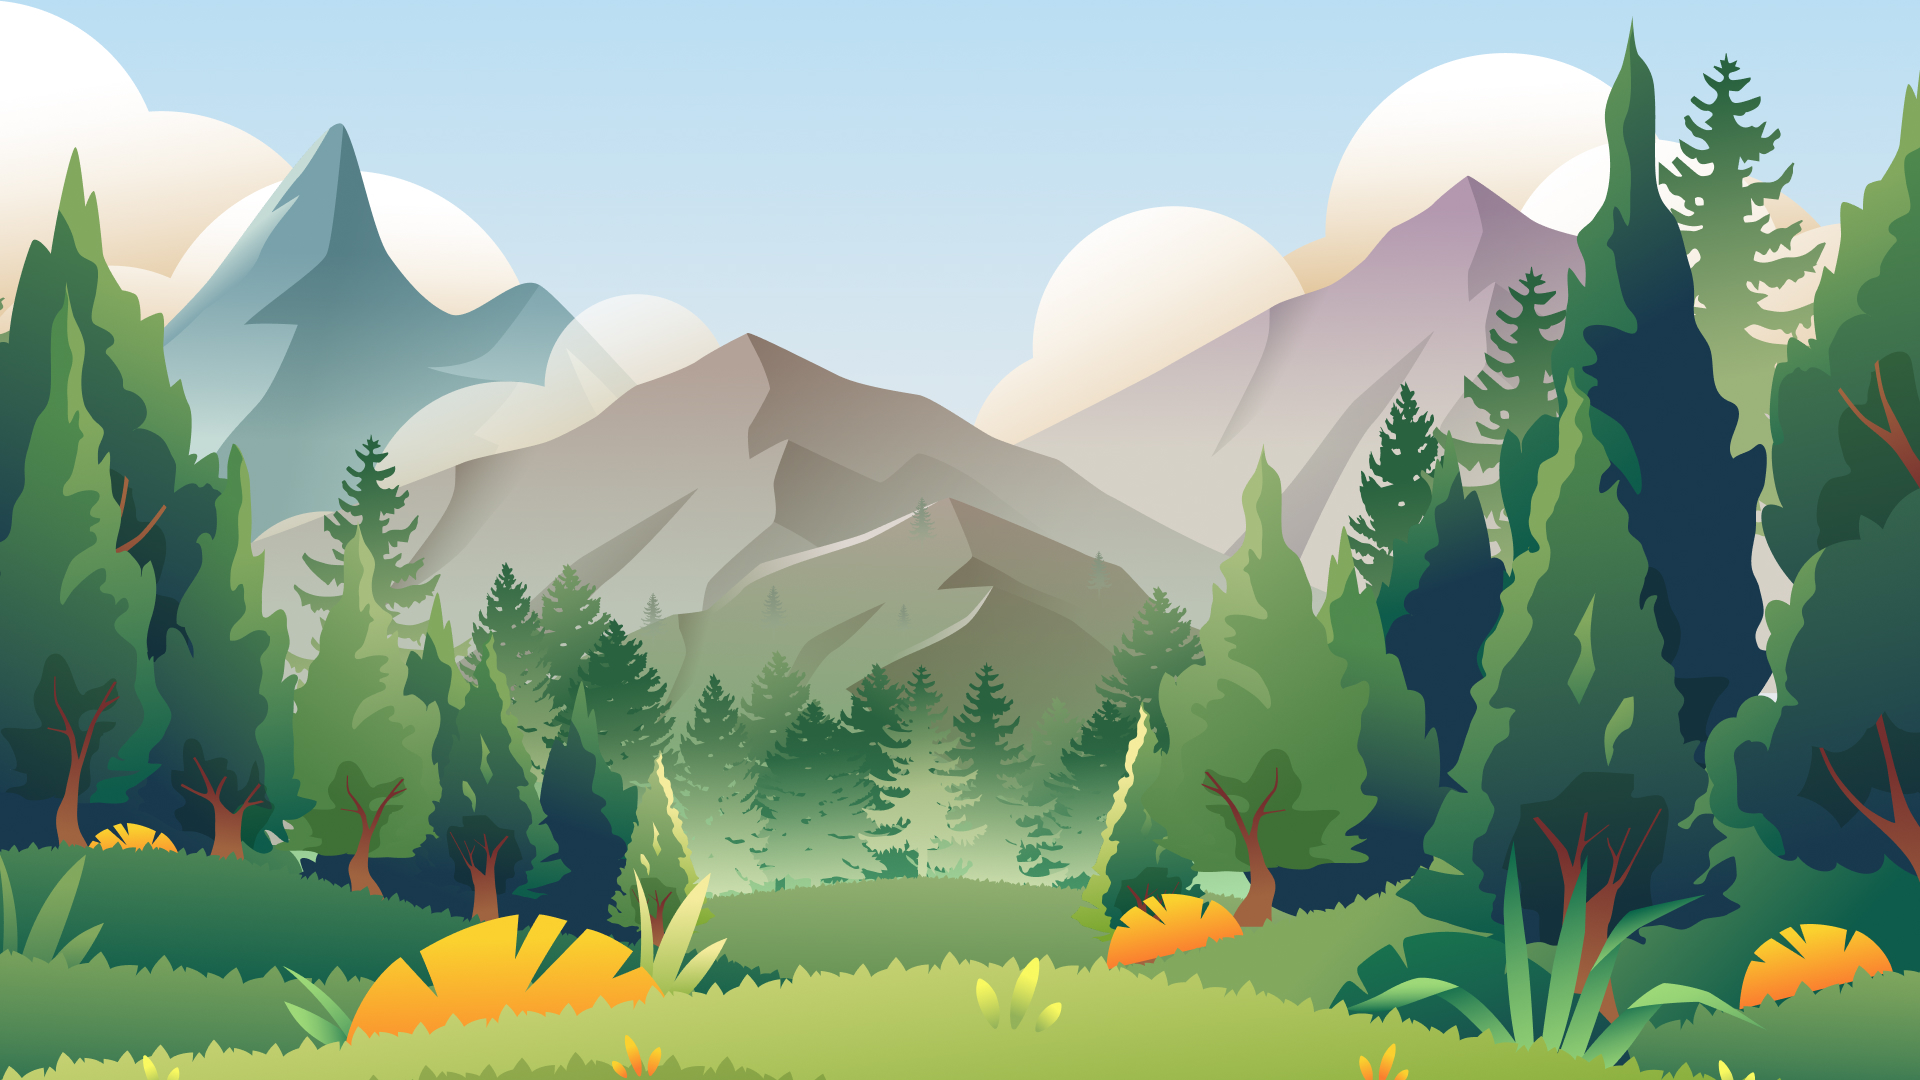
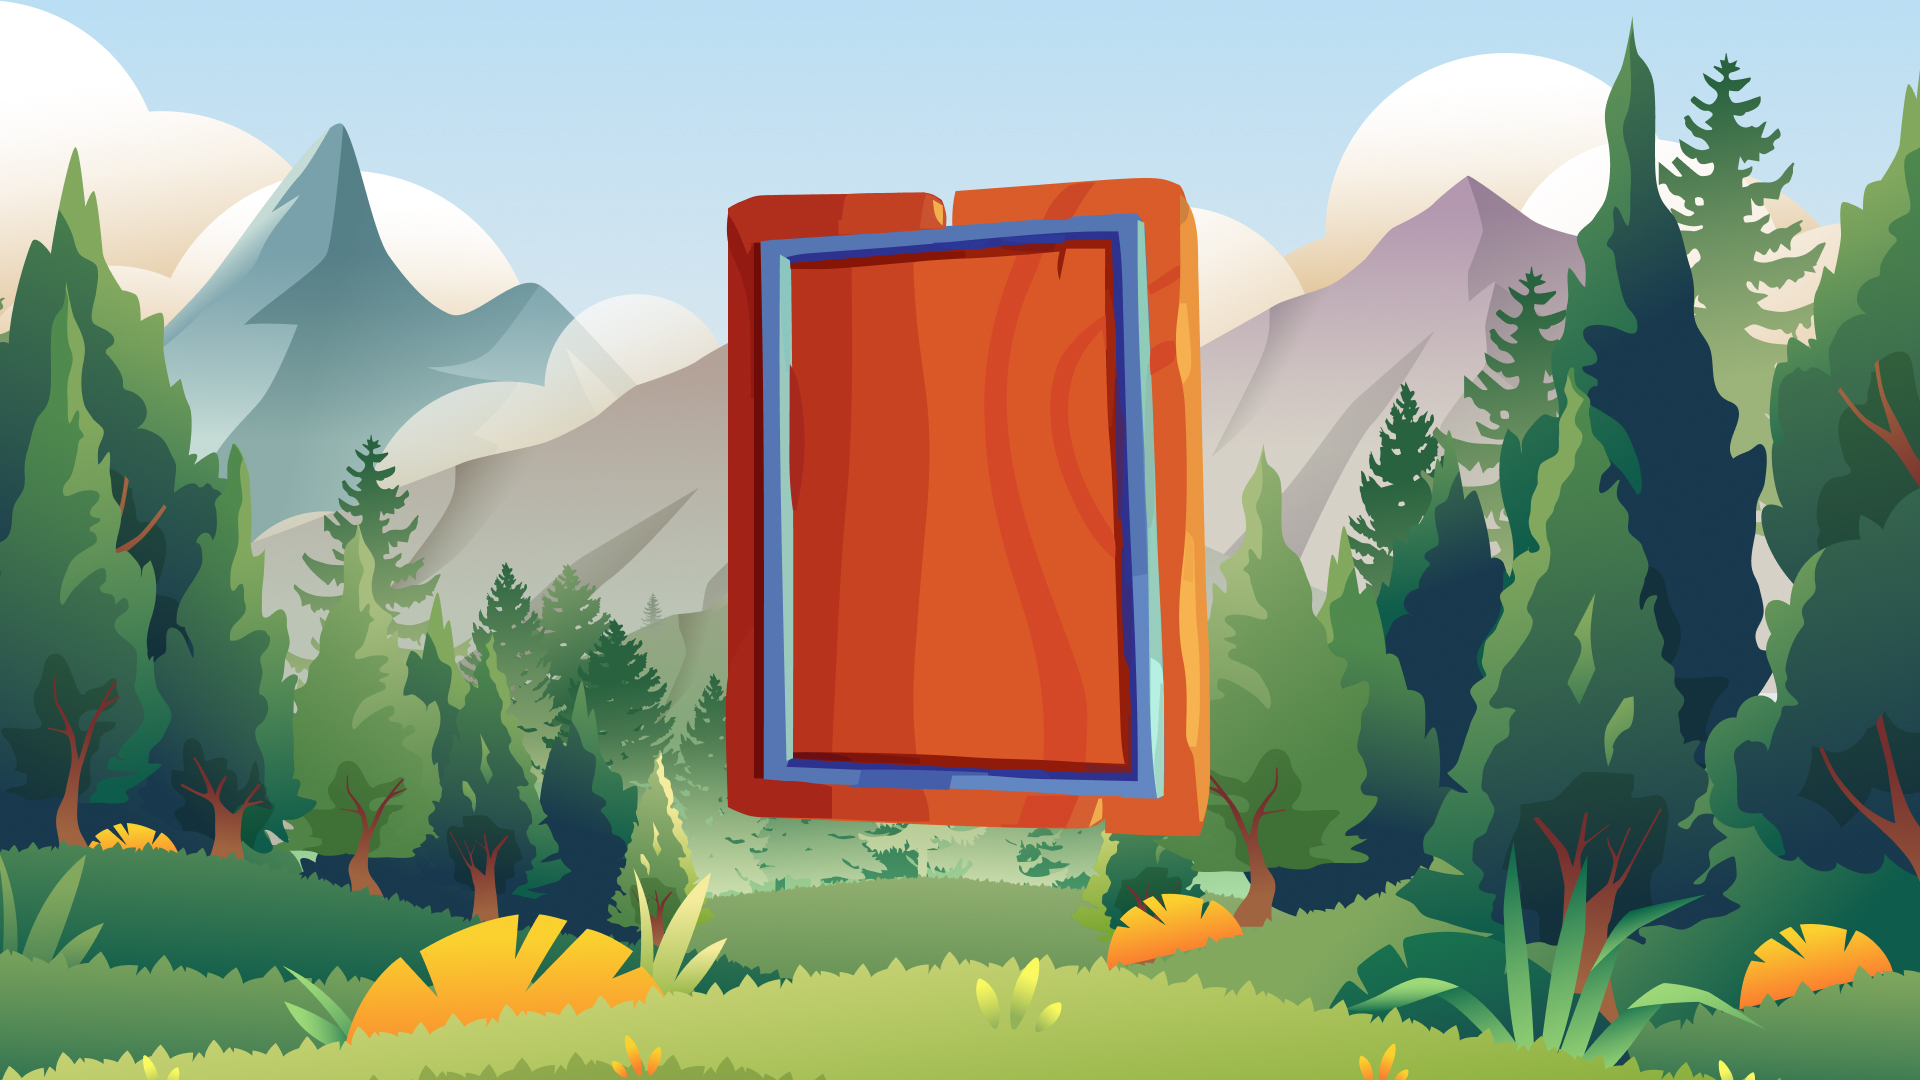
update gui

Changed region(s): [[0.375, 0.1528, 0.6562, 0.7944]]

diff --git a/src/HomePage.java b/src/HomePage.java
@@ -16,11 +16,11 @@ public class HomePage extends JPanel {
 
         dbHandler = new DatabaseHandler();
 
-        // Load the background image
+
         backgroundImage = new ImageIcon("src/img/background_home.jpg").getImage();
 
         setLayout(new BoxLayout(this, BoxLayout.Y_AXIS));
-        setBorder(BorderFactory.createEmptyBorder(20, 20, 20, 20));
+        setBorder(BorderFactory.createEmptyBorder(300, 20, 20, 20));
 
         JLabel nameGameLabel = new JLabel("MMC");
         nameGameLabel.setFont(new Font("poppins", Font.BOLD, 24));
@@ -36,38 +36,42 @@ public class HomePage extends JPanel {
         nameField.setAlignmentX(Component.CENTER_ALIGNMENT);
         nameField.setHorizontalAlignment(JTextField.CENTER);
 
-        startButton = new JButton("Mulai");
-        startButton.setFont(new Font("Poppins", Font.BOLD, 14));
-        startButton.setBackground(new Color(0, 122, 204));
-        startButton.setForeground(Color.WHITE);
-        startButton.setFocusPainted(false);
+        startButton = new JButton(new ImageIcon("src/img/start_button.png"));
+        startButton.setContentAreaFilled(false); 
+        startButton.setBorderPainted(false);     
+        startButton.setFocusPainted(false);    
         startButton.setAlignmentX(Component.CENTER_ALIGNMENT);
-        startButton.setBorder(BorderFactory.createCompoundBorder(
-            BorderFactory.createLineBorder(new Color(0, 122, 204), 2),
-            BorderFactory.createEmptyBorder(5, 20, 5, 20)
-        ));
+        
+      
+        startButton.addActionListener(e -> {
+           
+            System.out.println("Start button clicked!");
+        });
 
-        leaderboardButton = new JButton("Leaderboard");
-        leaderboardButton.setFont(new Font("Poppins", Font.BOLD, 14));
-        leaderboardButton.setBackground(new Color(34, 193, 195));
-        leaderboardButton.setForeground(Color.WHITE);
-        leaderboardButton.setFocusPainted(false);
+        leaderboardButton = new JButton(new ImageIcon("src/img/leaderboard_button.png"));
+        leaderboardButton.setContentAreaFilled(false); 
+        leaderboardButton.setBorderPainted(false);    
+        leaderboardButton.setFocusPainted(false);      
         leaderboardButton.setAlignmentX(Component.CENTER_ALIGNMENT);
-        leaderboardButton.setBorder(BorderFactory.createCompoundBorder(
-            BorderFactory.createLineBorder(new Color(34, 193, 195), 2),
-            BorderFactory.createEmptyBorder(5, 20, 5, 20)
-        ));
 
-        exitButton = new JButton("Keluar");
-        exitButton.setFont(new Font("Poppins", Font.BOLD, 14));
-        exitButton.setBackground(new Color(255, 87, 34));
-        exitButton.setForeground(Color.WHITE);
-        exitButton.setFocusPainted(false);
+    
+        leaderboardButton.addActionListener(e -> {
+           
+            System.out.println("Leaderboard button clicked!");
+        });
+
+        exitButton = new JButton(new ImageIcon("src/img/exit_button.png"));
+        exitButton.setContentAreaFilled(false); 
+        exitButton.setBorderPainted(false);     
+        exitButton.setFocusPainted(false);    
         exitButton.setAlignmentX(Component.CENTER_ALIGNMENT);
-        exitButton.setBorder(BorderFactory.createCompoundBorder(
-            BorderFactory.createLineBorder(new Color(255, 87, 34), 2),
-            BorderFactory.createEmptyBorder(5, 20, 5, 20)
-        ));
+
+
+        exitButton.addActionListener(e -> {
+        
+            System.exit(0); 
+        });
+
 
         startButton.addActionListener(e -> {
             playerName = nameField.getText().trim();
